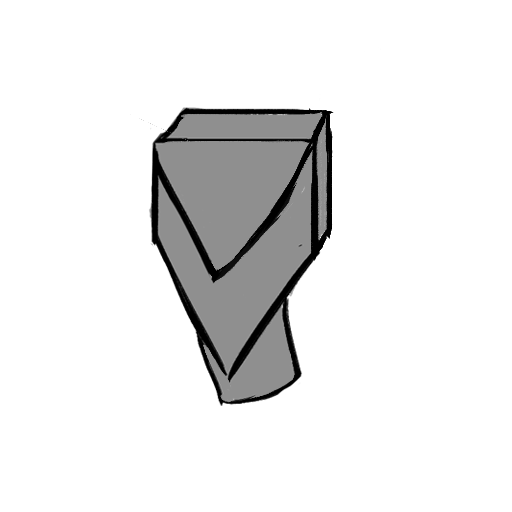
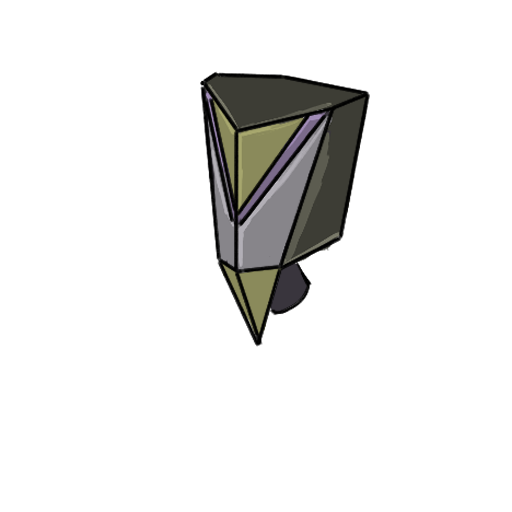
Added new art to Sentinel. Modified the ShieldBashOutTime to 0.2, a value below 0.2 may cause hugs.

Changed region(s): [[0.2812, 0.125, 0.7188, 0.8125]]

diff --git a/DCEngine/Projects/Rebound/Components/AI/Sentinel.cpp b/DCEngine/Projects/Rebound/Components/AI/Sentinel.cpp
@@ -108,6 +108,8 @@ namespace DCEngine {
 
     void Sentinel::UpdateShield()
     {
+      DCTrace << "Sentinel Shield Mass: " << shield->getComponent<BoxCollider>()->GetMass();
+
       Vec3 playerPosition = player->getComponent<Transform>()->Translation;
       Vec3 thisPosition = TransformRef->Translation;
 
